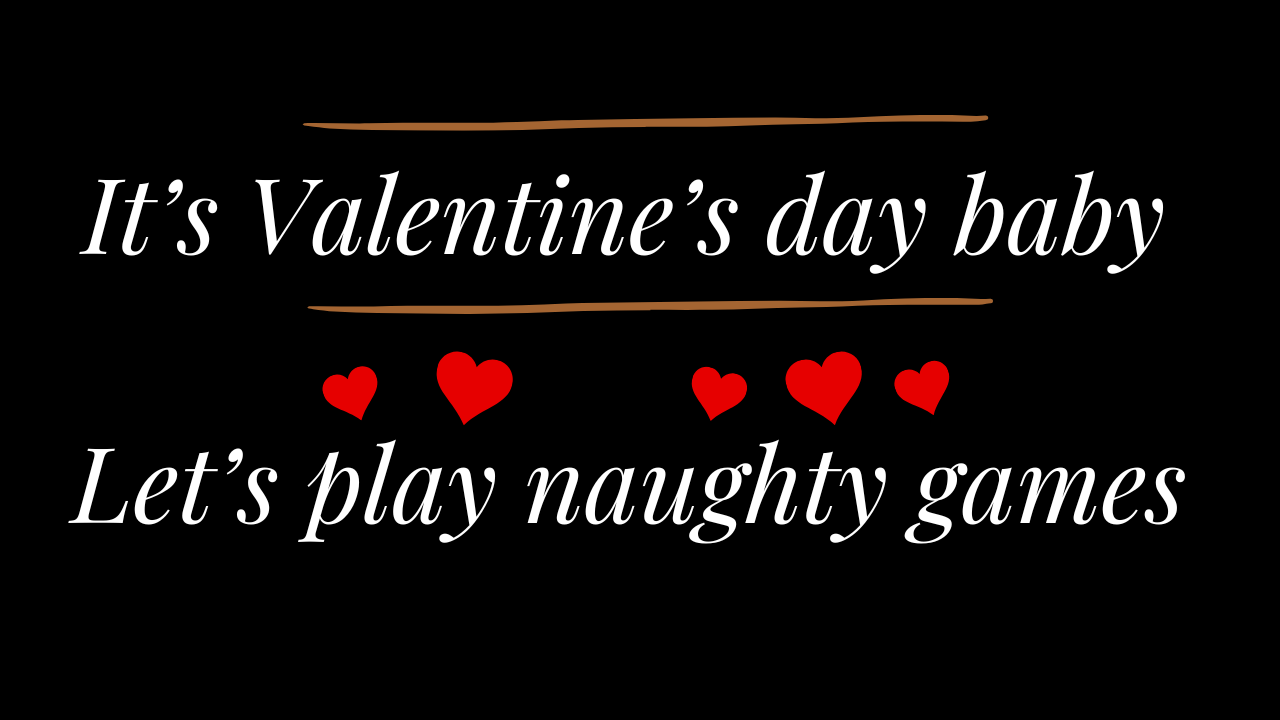
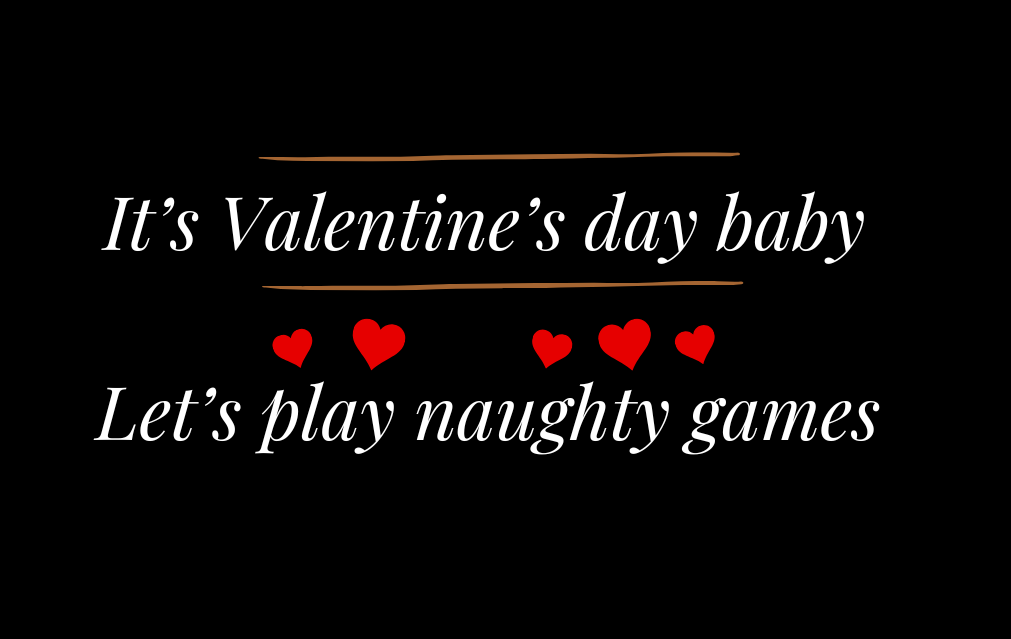
game image change

Changed region(s): [[0.0613, 0.2379, 0.9199, 0.5947], [0.0613, 0.4757, 0.9505, 0.7731], [0.2453, 0.1487, 0.7666, 0.2081]]

diff --git a/script.js b/script.js
@@ -22,10 +22,17 @@ noButton.addEventListener('click', () => {
     yesButton.addEventListener('click', () => {
         const mainContainer = document.createElement('div');
         mainContainer.style.display = 'flex';
+        mainContainer.style.justifyContent = 'center';
         mainContainer.style.flexDirection = 'column'; // Single column layout
         mainContainer.style.alignItems = 'center'; // Center align elements
         mainContainer.style.gap = '20px'; // Space between elements
         mainContainer.style.width = '100%';
+
+        document.body.style.display = 'flex';
+document.body.style.justifyContent = 'center';
+document.body.style.alignItems = 'center';
+document.body.style.height = '100vh';
+document.body.style.margin = '0';
 
     // Create the first section: Image
     const imageSection = document.createElement('div');
@@ -59,8 +66,8 @@ noButton.addEventListener('click', () => {
     // Create the third section: Small  ball  Game
     const gameSection = document.createElement('div');
     gameSection.style.backgroundColor = 'black';
-    gameSection.style.padding = '20px';
-    gameSection.style.borderRadius = '10px';
+    gameSection.style.padding = '5px';
+    gameSection.style.borderRadius = '5px';
 
     // Creating the horizontal image
     const gameImage = document.createElement('img');
